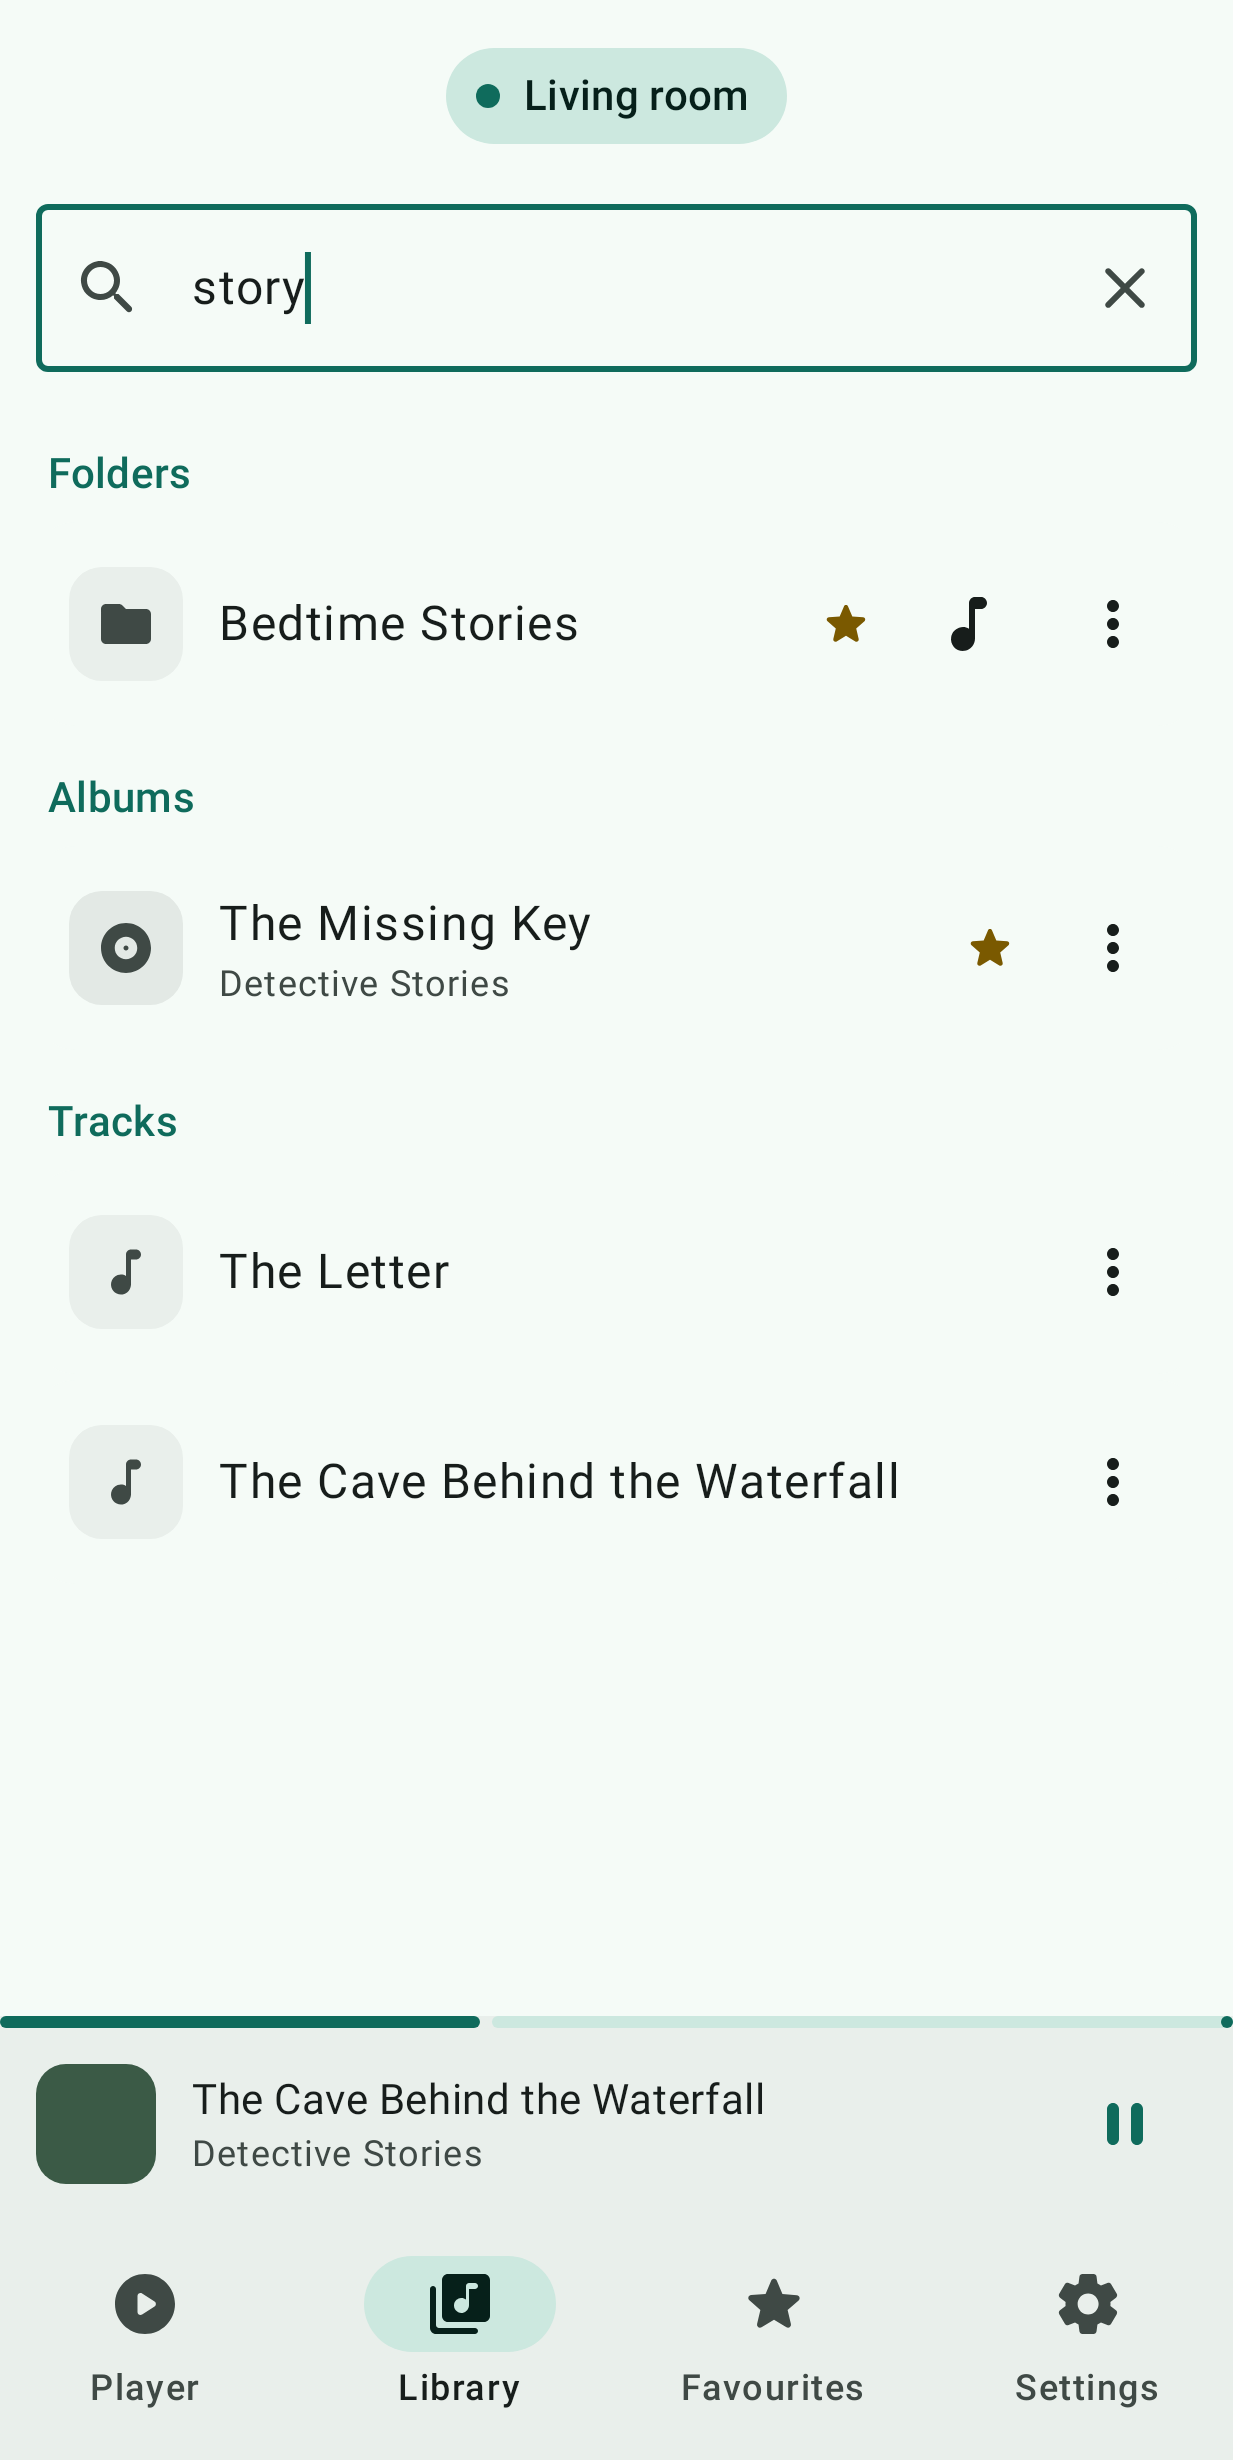
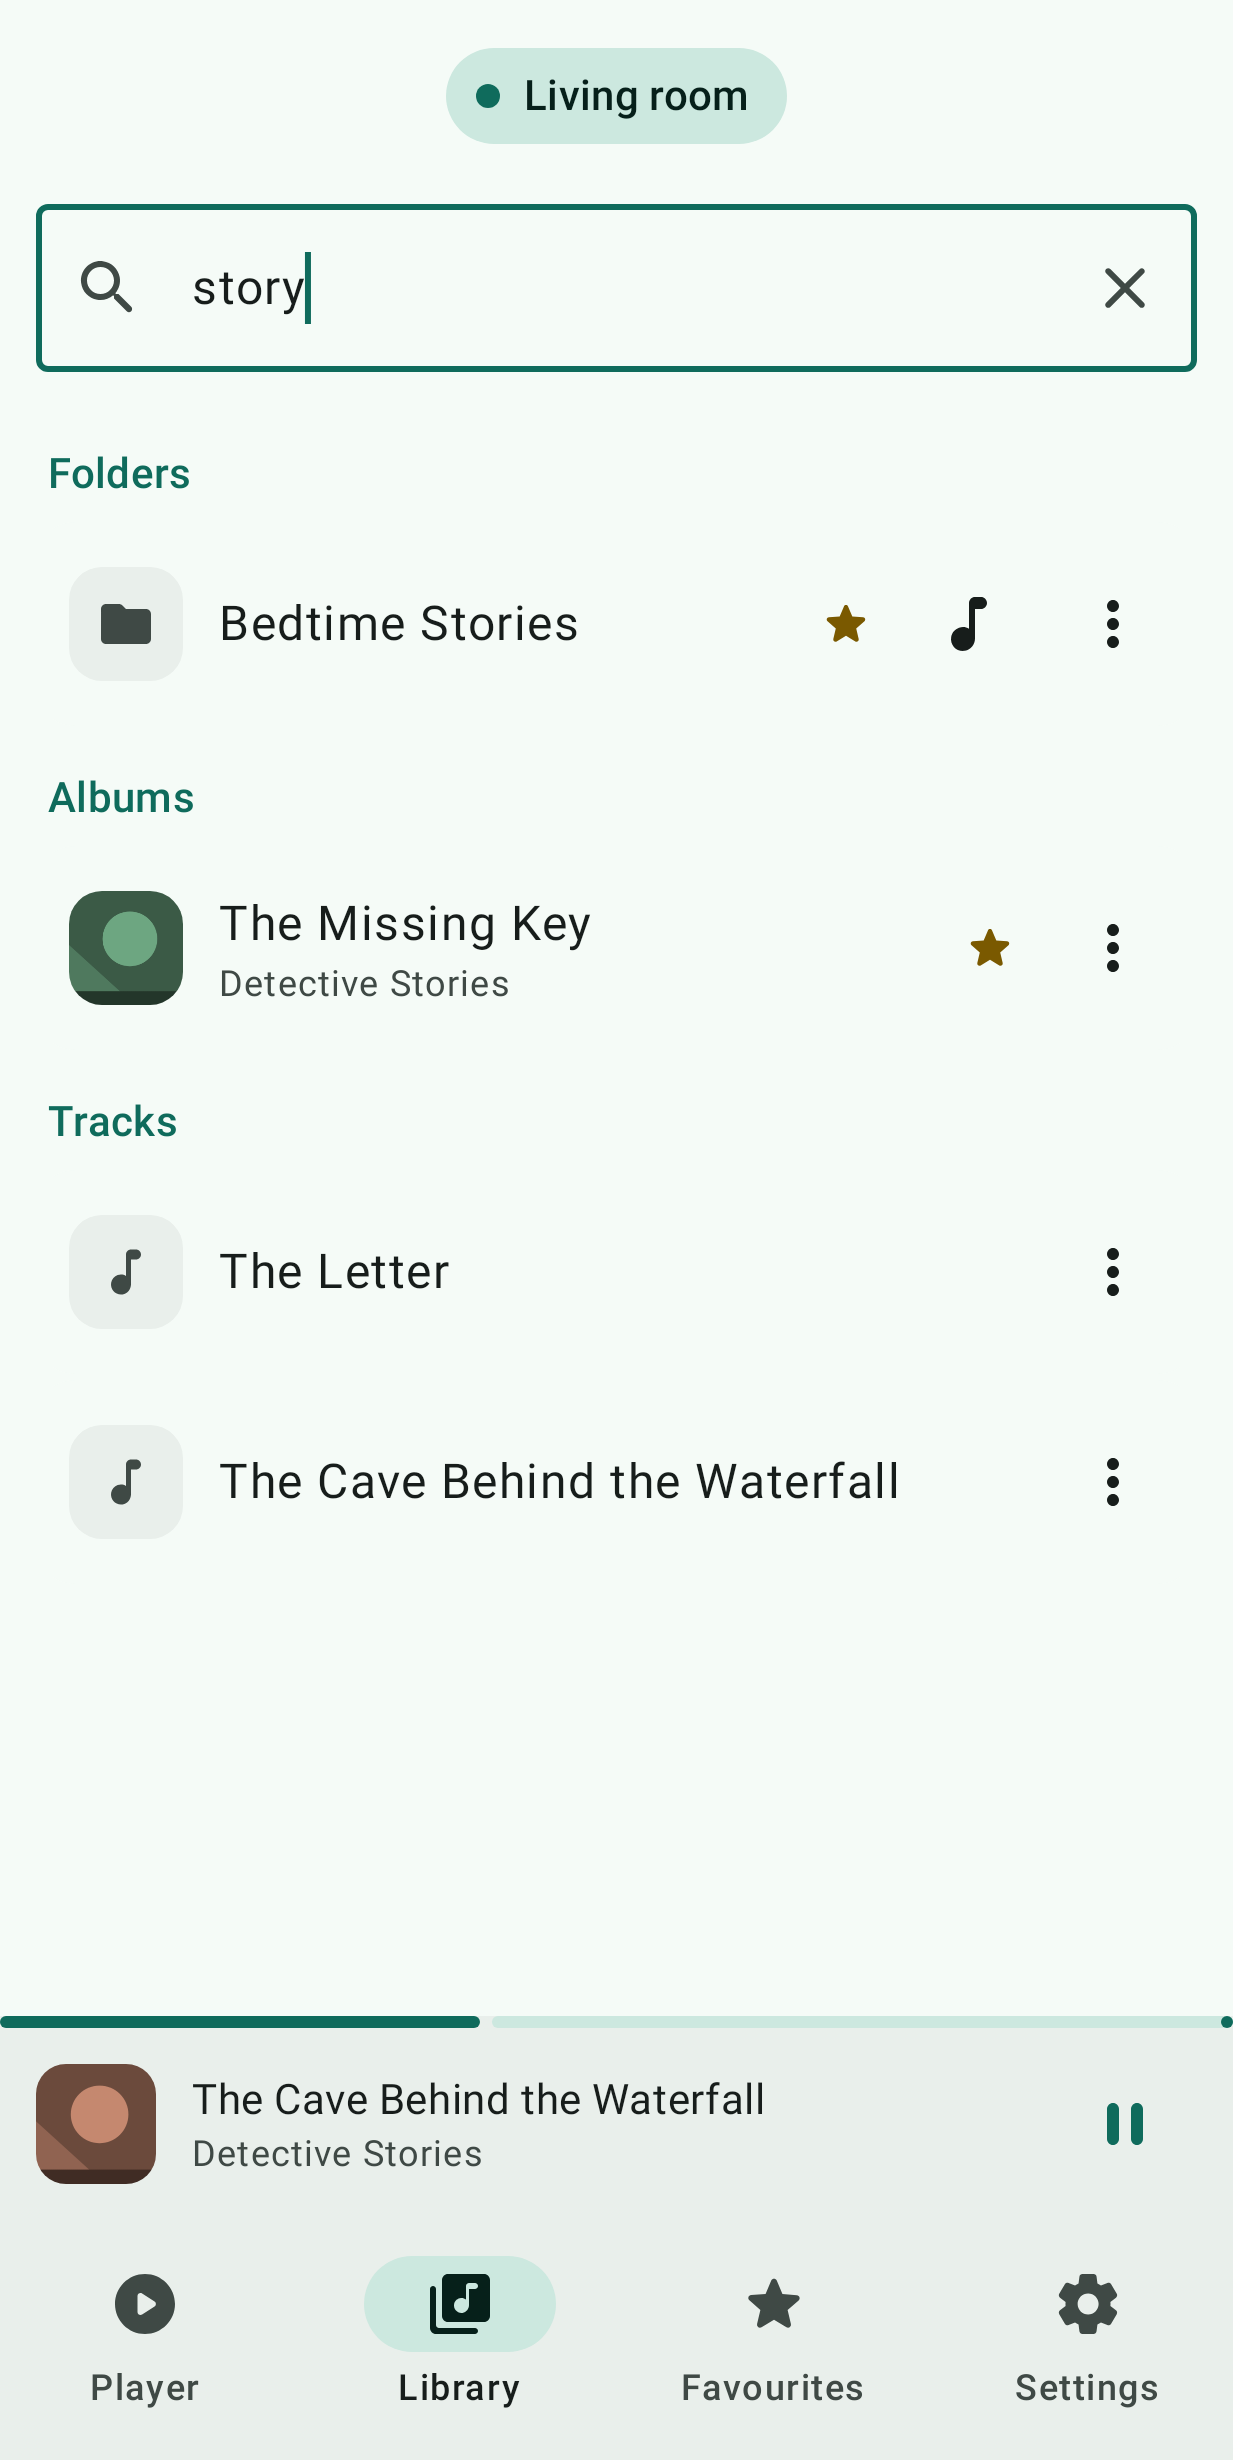
chore(store): regenerate listing and website screenshots
They still showed the flat green rectangle the fake image loader used to
answer every cover request with, and the favourites shot in particular
had four empty tiles sitting above a mini player that did show a cover —
which reads as artwork failing to load rather than as a design, and
contradicts what the app does now that a played folder keeps its cover.

StoreFixtures.favorites therefore gains artwork on three of four, leaving
one placeholder because a box genuinely has folders it has no art for.
The third is spelt cover-fairytales.jpg rather than cover-fairy-tales.jpg
because the latter hashes into the same palette slot as the bedtime
cover, and two identical tiles side by side is what the shot is meant to
disprove. FakeCoverArt and AGENTS.md now say how to check that.

All 15 Play images and the 15 copies under docs/pages are rebuilt, and
tools/check_store_metadata.sh passes on format, alpha, dimensions and
aspect ratio.

Changed region(s): [[0.0308, 0.3398, 0.1541, 0.4325], [0.0308, 0.8341, 0.1233, 0.8959]]

diff --git a/app/src/testDebug/kotlin/app/coilforphoniebox/screenshot/StoreFixtures.kt b/app/src/testDebug/kotlin/app/coilforphoniebox/screenshot/StoreFixtures.kt
@@ -85,6 +85,15 @@ object StoreFixtures {
         ),
     )
 
+    /**
+     * Three with artwork and one without, which is what a used favourites tab looks like: a
+     * folder that has been played carries the cover Coil resolved for it, and one whose tracks
+     * have no embedded art keeps its placeholder.
+     *
+     * The covers are not decoration on a listing image — without them this shot is four empty
+     * tiles above a mini player that *does* show a cover, which reads as artwork failing to
+     * load rather than as a design.
+     */
     val favorites = listOf(
         Favorite(
             id = 1,
@@ -92,6 +101,7 @@ object StoreFixtures {
             label = "Bedtime Stories",
             type = FavoriteType.FOLDER,
             folder = "Bedtime Stories",
+            coverFile = "cover-bedtime.jpg",
             sortIndex = 0,
             launchCount = 31,
         ),
@@ -102,6 +112,7 @@ object StoreFixtures {
             type = FavoriteType.ALBUM,
             albumArtist = "Detective Stories",
             album = "The Missing Key",
+            coverFile = "cover-missing-key.jpg",
             sortIndex = 1,
             launchCount = 12,
         ),
@@ -111,6 +122,10 @@ object StoreFixtures {
             label = "Fairy Tales",
             type = FavoriteType.FOLDER,
             folder = "Fairy Tales",
+            // Not "cover-fairy-tales.jpg": that lands in the same palette slot as the
+            // bedtime cover, and two adjacent tiles of one colour is what this shot is
+            // meant to disprove. See FakeCoverArt on picking a fixture's file name.
+            coverFile = "cover-fairytales.jpg",
             sortIndex = 2,
             launchCount = 9,
         ),

diff --git a/app/src/testDebug/kotlin/app/coilforphoniebox/screenshot/FakeCoverArt.kt b/app/src/testDebug/kotlin/app/coilforphoniebox/screenshot/FakeCoverArt.kt
@@ -40,6 +40,14 @@ object FakeCoverArt {
     /**
      * Muted and brand-adjacent rather than loud: these reach the Play Store screenshots through
      * the same harness, where a page of primary colours would read as test scaffolding.
+     *
+     * Five slots means two fixtures can land on the same colour, which matters only where they
+     * end up side by side — a grid of covers that is meant to show they differ. When adding a
+     * fixture cover, check its slot rather than assume:
+     *
+     * ```
+     * Math.floorMod(("http://<host>/cover-cache/" + fileName).hashCode(), 5)
+     * ```
      */
     private val BASE_COLORS = intArrayOf(
         0xFF3B5A46.toInt(), // deep green — the colour every cover used to be

diff --git a/AGENTS.md b/AGENTS.md
@@ -433,12 +433,17 @@ action rather than presetting the stored preference, so a toggle that stopped sw
 test instead of quietly capturing the same picture twice. `Fixtures.albums` does the same for the
 album grid, four of six with artwork.
 
-`StoreFixtures.favorites` still carries no covers, which is now a choice about the listing rather
-than a limitation — those entries are folders, and that shot reads as a shelf of saved folders.
-Note also that the store assets under `fastlane/` and `docs/pages/` were **not** regenerated when
-`FakeCoverArt` landed, so they still show the old flat-green covers. Bringing them in step is
-`recordRoborazziDebug --tests '*StoreAssetTest' --rerun-tasks`, and it is a deliberate act rather
-than a consequence, because they are products.
+`StoreFixtures.favorites` carries covers on three of four for a reason worth keeping: without them
+that listing image is four empty tiles above a mini player that *does* show a cover, which reads as
+artwork failing to load rather than as a design — and it contradicts what the app now does, since
+a played folder gets its cover. The fourth keeps its placeholder, because a box genuinely does have
+folders it has no artwork for.
+
+**Two fixtures can land on the same palette slot.** `FakeCoverArt` picks from five colours by URL
+hash, so a grid meant to show that covers differ can end up with two identical tiles next to each
+other — `cover-fairy-tales.jpg` and `cover-bedtime.jpg` collide, which is why the store fixture
+spells it `cover-fairytales.jpg`. Check a new fixture's slot rather than assume:
+`Math.floorMod(("http://<host>/cover-cache/" + fileName).hashCode(), 5)`.
 
 Box management is captured with **two** boxes configured (`app/boxes_*`, `app/box_detail_*`), since
 one box is the case where those screens have least to say — and the box page golden is the
